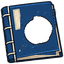
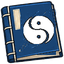
style(art): 将全量心法秘籍升级为界限分明、纯黑底纯白二值镂空矢量Logo

Changed region(s): [[0.3438, 0.2188, 0.8438, 0.7188], [0.5625, 0.3125, 0.6562, 0.4062], [0.5625, 0.5312, 0.6562, 0.625]]

diff --git a/.agents/skills/moss-art/scripts/moss_generator.py b/.agents/skills/moss-art/scripts/moss_generator.py
@@ -470,6 +470,75 @@ PRESET_BATCHES = {
             "bbox": [120, -130, 400, 130],
             "caption": "Bottom-center item: [玄元一气功图腾 - Primordial Origin Qi Logo]. A bold solid pure white minimalist vector silhouette logo of a primordial cosmic taiji symbol surrounded by cloud rings, clean simple graphic icon mark, solid white shape, no gradients, no shading, flat 2D."
         }
+    ],
+    # 纯黑底纯白二值矢量Logo (2x2 田字格，4个道具，界限分明负空间切割，零渐变)
+    "logos_4_batch_1": [
+        {
+            "id": "emblem.tuna-gong",
+            "name": "吐纳功图腾",
+            "bbox": [-420, -420, -80, -80],
+            "caption": "Top-left item: [吐纳功图腾 - Tuna Breath Taiji Logo]. A bold minimalist vector silhouette logo of a taiji breath vortex, two distinct swirling curved white fish separated by a crisp black S-curve gap, two solid circular dots in negative space, clean distinct shapes, solid pure white on solid pure black, strictly no gradients, high contrast."
+        },
+        {
+            "id": "emblem.manniu-jin",
+            "name": "蛮牛劲图腾",
+            "bbox": [-420, 80, -80, 420],
+            "caption": "Top-right item: [蛮牛劲图腾 - Raging Bull Stencil Logo]. A bold minimalist vector silhouette logo of a raging bull head, stencil cut graphic symbol, sharp thick horns separated from skull with distinct negative black lines, stylized triangular head with hollow black eye slits and ring, clean distinct white segments, solid pure white on solid pure black, strictly no gradients, high contrast."
+        },
+        {
+            "id": "emblem.tiebu-shan",
+            "name": "铁布衫图腾",
+            "bbox": [80, -420, 420, -80],
+            "caption": "Bottom-left item: [铁布衫图腾 - Iron Shirt Bell Shield Logo]. A bold minimalist vector silhouette logo of an ancient temple bell shield, distinct white armor plate outlines separated by crisp black groove lines, solid pure white on solid pure black, strictly no gradients, high contrast stencil cut."
+        },
+        {
+            "id": "emblem.feiyan-gong",
+            "name": "飞燕功图腾",
+            "bbox": [80, 80, 420, 420],
+            "caption": "Bottom-right item: [飞燕功图腾 - Flying Swallow Stencil Logo]. A bold minimalist vector silhouette logo of a soaring swallow bird in flight, distinct angular wings separated by crisp negative black feather slots, split scissor tail, clean solid pure white on solid pure black, strictly no gradients, high contrast."
+        }
+    ],
+    # 批次 2：清心诀、焚血功、小周天功、存神诀
+    "logos_4_batch_2": [
+        {
+            "id": "emblem.qingxin-jue",
+            "name": "清心诀图腾",
+            "bbox": [-420, -420, -80, -80],
+            "caption": "Top-left item: [清心诀图腾 - Clear Heart Lotus Logo]. A bold minimalist vector silhouette logo of a serene water lotus flower with a crystal dewdrop above, petals separated by crisp negative black space cuts, clean distinct stencil shapes, solid pure white on solid pure black, strictly no gradients, high contrast."
+        },
+        {
+            "id": "emblem.fenxue-gong",
+            "name": "焚血功图腾",
+            "bbox": [-420, 80, -80, 420],
+            "caption": "Top-right item: [焚血功图腾 - Blood Burning Flame Heart Logo]. A bold minimalist vector silhouette logo of a blazing flame heart with three sharp fire tendrils, flame layers separated by crisp negative black cuts, clean distinct stencil shapes, solid pure white on solid pure black, strictly no gradients, high contrast."
+        },
+        {
+            "id": "emblem.xiaozhoutian-gong",
+            "name": "小周天功图腾",
+            "bbox": [80, -420, 420, -80],
+            "caption": "Bottom-left item: [小周天功图腾 - Microcosmic Orbit Stencil Logo]. A bold minimalist vector silhouette logo of a sacred microcosmic circular meridian ring with four cardinal acupoint dots and an internal S-flow, ring separated by crisp negative black gaps, clean distinct stencil shapes, solid pure white on solid pure black, strictly no gradients, high contrast."
+        },
+        {
+            "id": "emblem.cunshen-jue",
+            "name": "存神诀图腾",
+            "bbox": [80, 80, 420, 420],
+            "caption": "Bottom-right item: [存神诀图腾 - Soul Enshrining Eye Logo]. A bold minimalist vector silhouette logo of an ancient divine consciousness eye with a central circular pupil and radiating stylized rays, eyelid separated from pupil by crisp negative black space, clean distinct stencil shapes, solid pure white on solid pure black, strictly no gradients, high contrast."
+        }
+    ],
+    # 批次 3：炼精化气诀、玄元一气功 (2个道具放在上排)
+    "logos_4_batch_3": [
+        {
+            "id": "emblem.lianjing-huaqi-jue",
+            "name": "炼精化气诀图腾",
+            "bbox": [-420, -420, -80, -80],
+            "caption": "Top-left item: [炼精化气诀图腾 - Essence Transmutation Tripod Logo]. A bold minimalist vector silhouette logo of an ancient three-legged bronze alchemy cauldron tripod with two swirling steam ribbons above, tripod legs and handles separated by crisp negative black cuts, clean distinct stencil shapes, solid pure white on solid pure black, strictly no gradients, high contrast."
+        },
+        {
+            "id": "emblem.xuanyuan-yiqi-gong",
+            "name": "玄元一气功图腾",
+            "bbox": [-420, 80, -80, 420],
+            "caption": "Top-right item: [玄元一气功图腾 - Primordial Origin Qi Grand Logo]. A bold minimalist vector silhouette logo of a grand primordial cosmic taiji emblem surrounded by two celestial cloud rings, taiji fish and cloud rings separated by crisp negative black cuts, clean distinct stencil shapes, solid pure white on solid pure black, strictly no gradients, high contrast."
+        }
     ]
 }
 
@@ -602,10 +671,16 @@ def process_and_slice(image_path, items_spec, output_dir=OUTPUT_DIR, target_size
         )
         crop = im.crop(safe_box)
         
-        # 自动去底 (普通彩色道具去白底；纯白矢量图腾绝不去白底，背景已被 RMBG 抠为透明)
+        # 自动去底与二值化
         arr = np.array(crop)
         r, g, b, a = arr[:, :, 0], arr[:, :, 1], arr[:, :, 2], arr[:, :, 3]
-        if "emblem" not in it.get("id", ""):
+        if "emblem" in it.get("id", ""):
+            # 纯黑底纯白二值矢量图腾：严格二值化 (Hard Binary Threshold)，零渐变，纯白+纯黑/透明
+            lum = (r.astype(int) + g.astype(int) + b.astype(int)) // 3
+            is_white = (lum > 100) & (a > 50)
+            arr[is_white] = [255, 255, 255, 255]
+            arr[~is_white] = [0, 0, 0, 0]
+        else:
             is_bg = (r > 235) & (g > 235) & (b > 235)
             arr[:, :, 3] = np.where(is_bg, 0, a)
         clean_crop = Image.fromarray(arr)
@@ -649,6 +724,8 @@ def main():
         summary_cap = "simplified stylized 2D Chinese Xianxia martial arts secret manual thread-bound book sprite sheet, clean bold cartoon shapes, traditional Chinese thread-bound ancient book with colored cover and white binding stitches on left spine, a vertical paper label strip on top-left of cover, thick book pages visible at bottom and right edge, minimal simple white doodle emblem drawn on the front cover, bold dark ink outline, flat clean colors with subtle shading, compact book items floating on solid pure white background, generous empty white spacing between items, strictly no overflow."
     elif "fragment" in args.batch:
         summary_cap = "simplified stylized 2D Chinese Xianxia ancient weathered parchment scroll fragment sprite sheet, clean bold shapes, torn rough paper edges, faint ancient cinnabar calligraphy runes, warm golden-amber parchment tone, clean bold silhouette, restrained details, bold brushwork, flat clean colors, distinct dark ink outline, compact fragment items floating on solid pure white background, generous empty white spacing between items, strictly no overflow."
+    elif "logos_" in args.batch:
+        summary_cap = "a 2x2 grid sprite sheet of 4 minimalist bold vector logo icons, stencil cut silhouette graphic symbol marks, strictly solid pure white icons on solid pure black background, high contrast binary black and white, zero gradients, zero shading, zero colors, crisp clean stencil cut lines and distinct negative space contours, sharp graphic edges, flat 2D vector clip-art."
     elif "emblem" in args.batch:
         summary_cap = "simplified stylized 2D Chinese Xianxia martial arts skill solid pure white vector logo sprite sheet, bold thick solid white graphic shapes, clean minimalist logo emblem mark, no gradients, no shading, no 3D, high contrast flat 2D icon, floating on solid pure white background, generous empty white spacing between items, strictly no overflow."
     else:
@@ -678,7 +755,7 @@ def main():
         out_dir = os.path.join(REPO_ROOT, "frontend", "public", "avatars")
         t_size, in_size = 256, 230
         print(f"开始自动切片、去底与 256px WebP 怪物立绘下采样: {latest_img} -> {out_dir}")
-    elif "emblem" in args.batch:
+    elif "emblem" in args.batch or "logos_" in args.batch:
         out_dir = os.path.join(REPO_ROOT, "art", "emblems")
         t_size, in_size = 128, 110
         print(f"开始自动切片、去底与 128px WebP 高精图腾母版下采样: {latest_img} -> {out_dir}")
